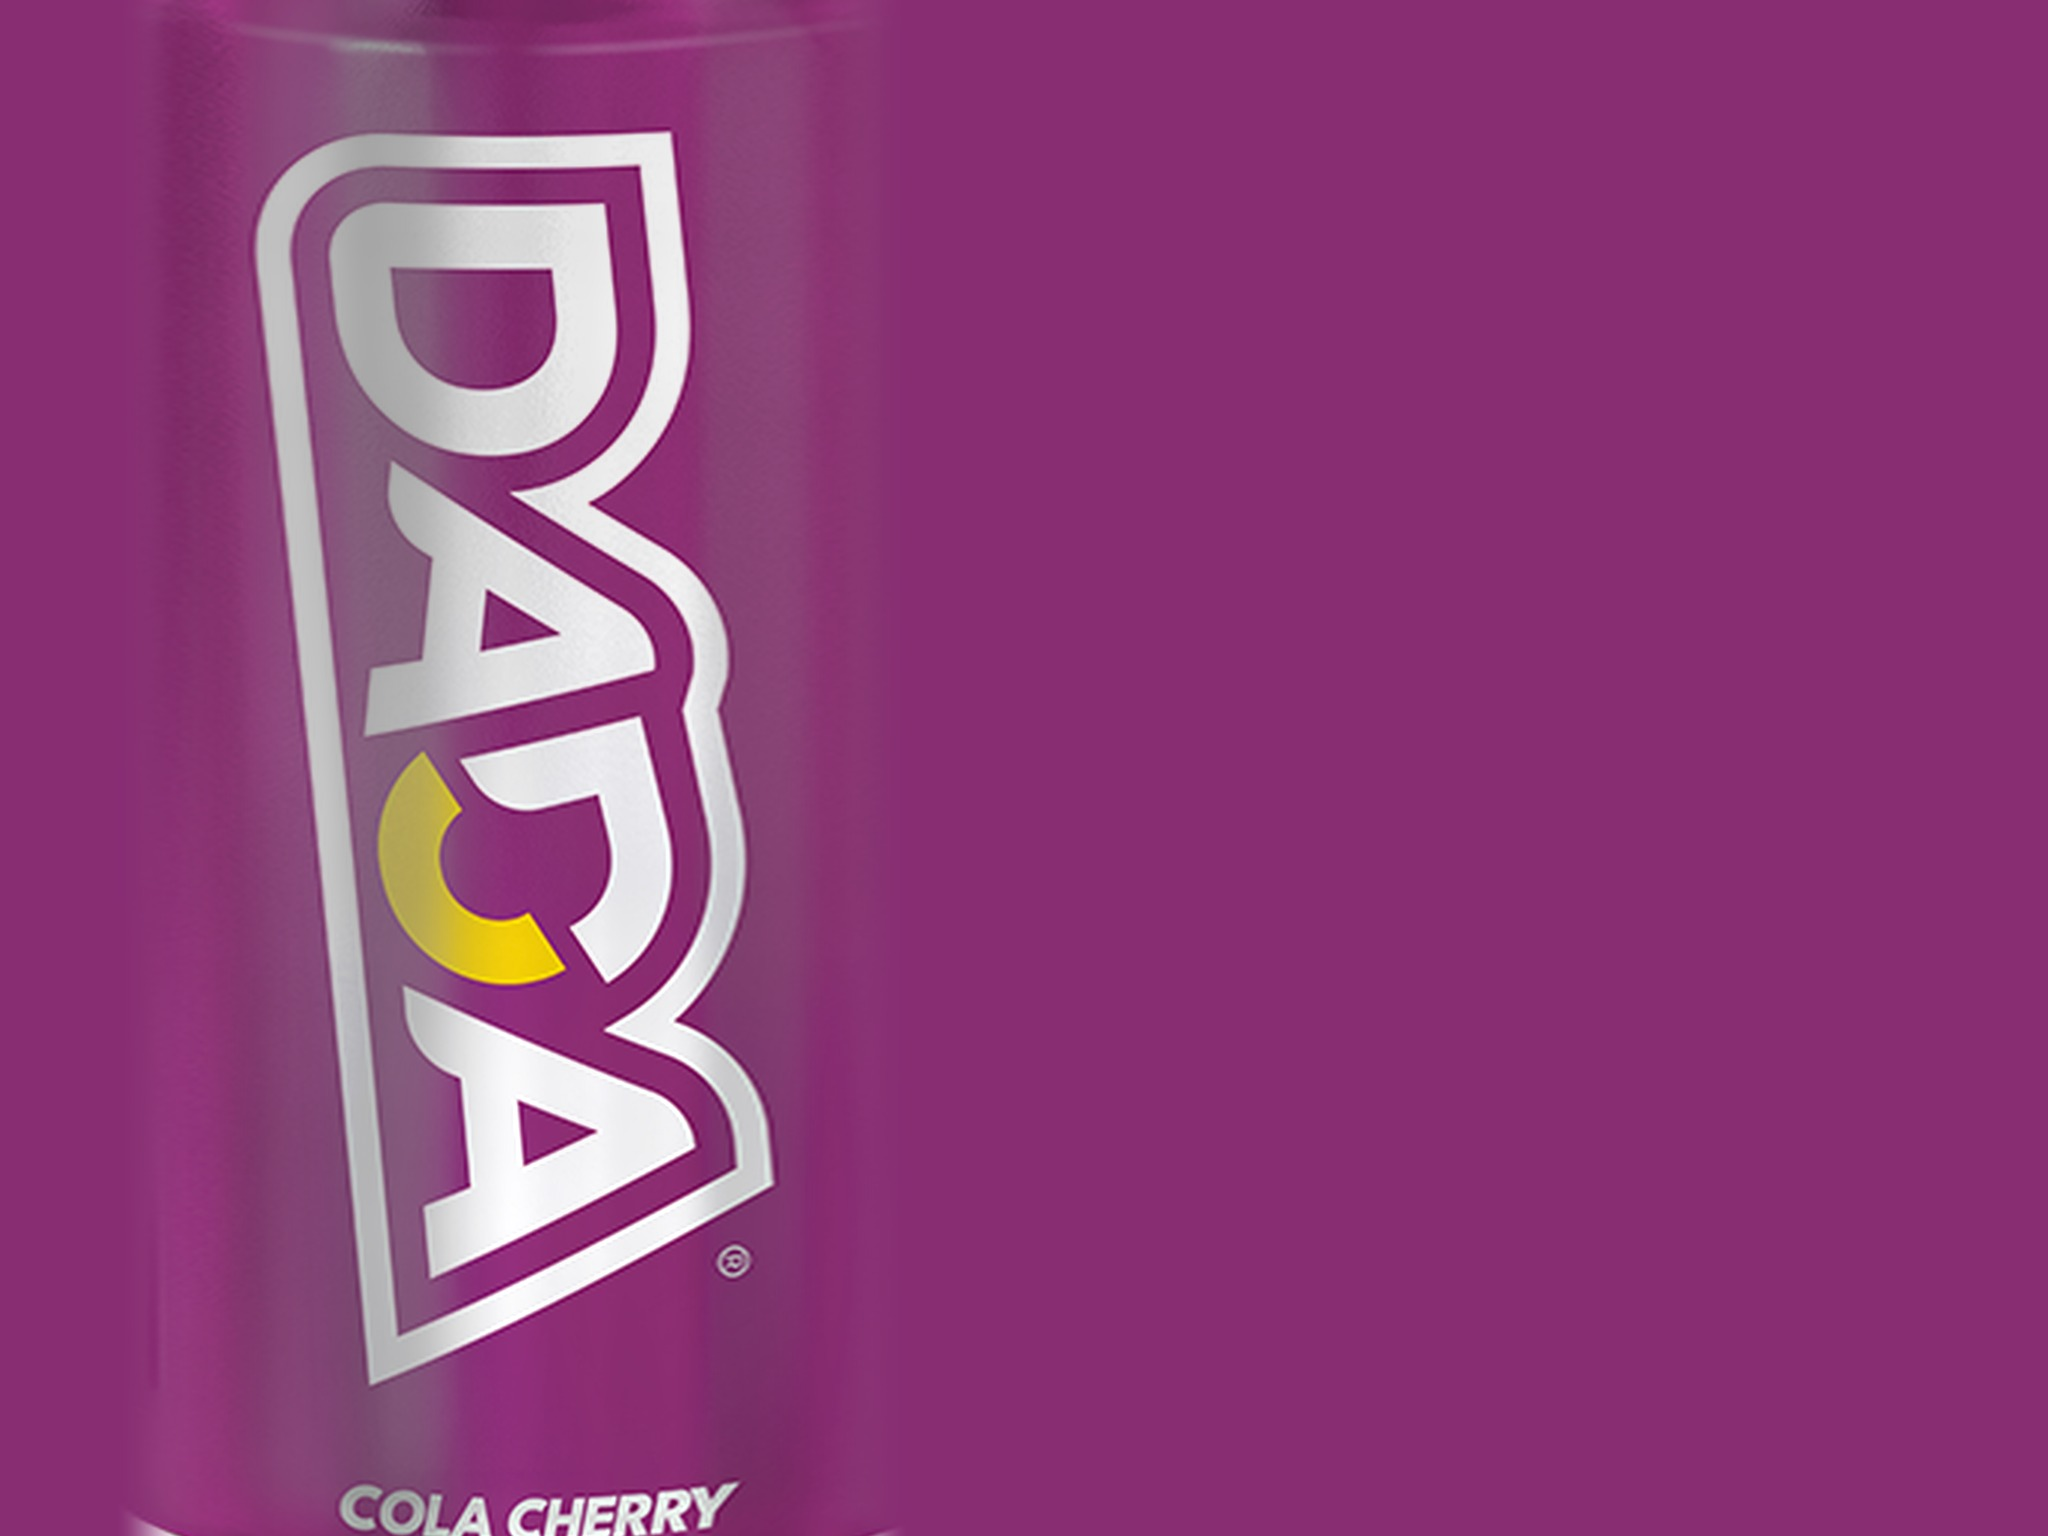
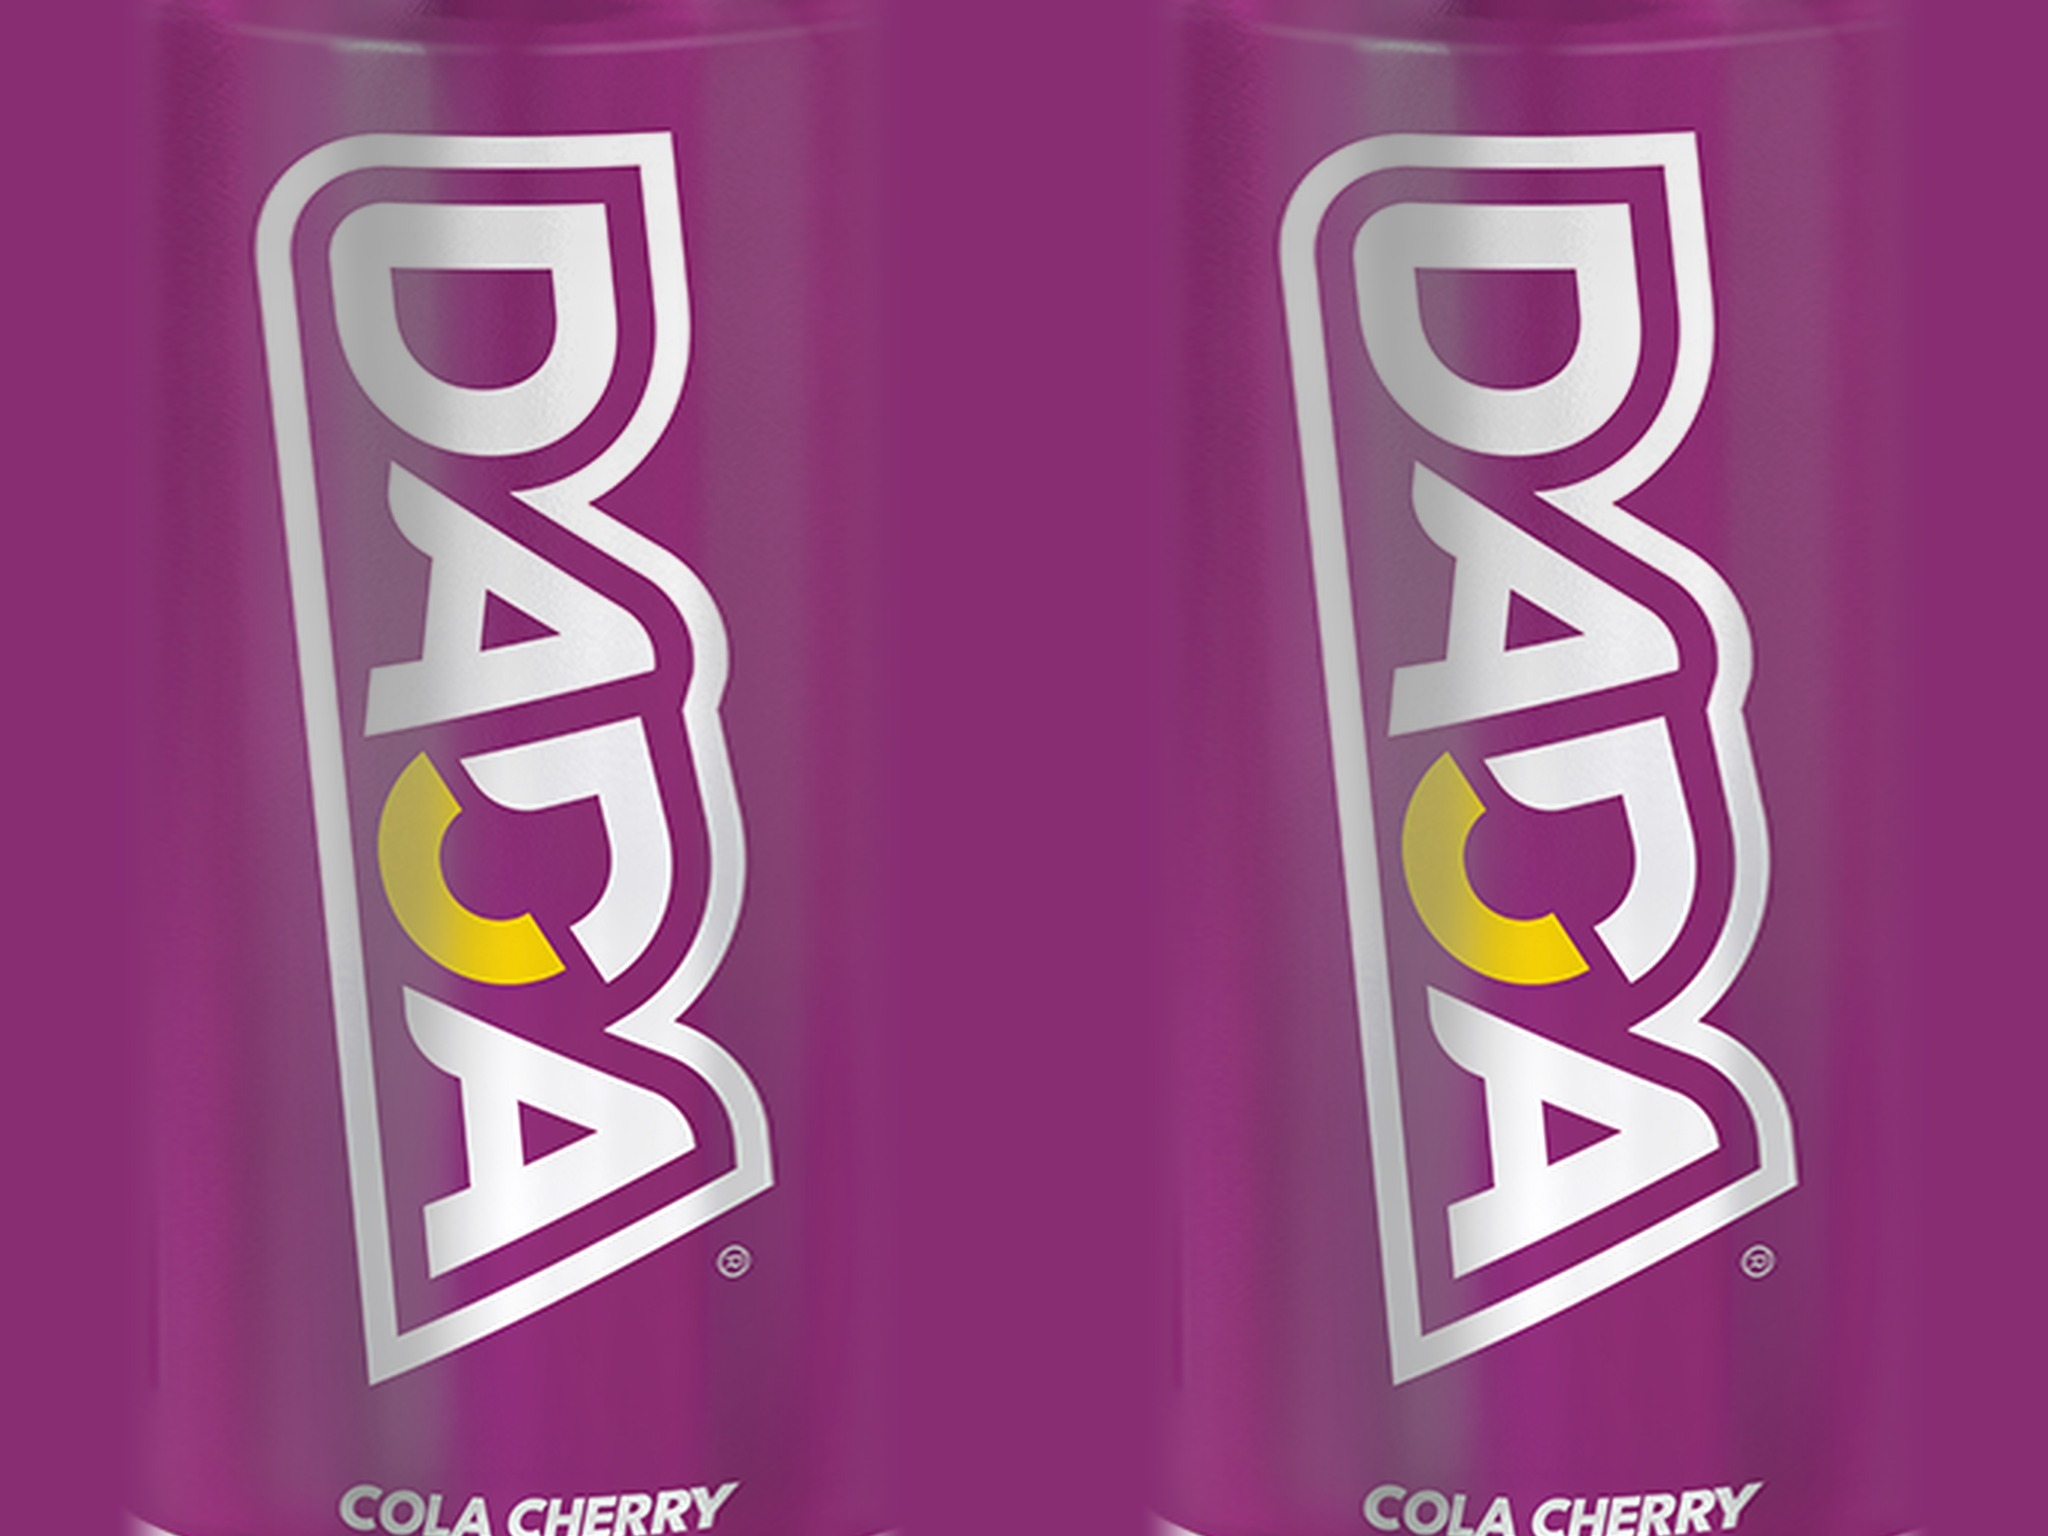
Univers : litchis fidèles, citron vert et menthe, cerises autour de la canette
Cola Cherry : design officiel sur les deux faces de la canette, cerises et bulles.

Claude-Session: https://claude.ai/code/session_01Lp2oVTbavkyW12Q8b8oBE2

Changed region(s): [[0.625, 0.0, 0.875, 1.0], [0.8125, 0.0, 0.875, 0.0312], [0.5625, 0.9688, 0.5938, 1.0]]

diff --git a/lib/can3d/universe.ts b/lib/can3d/universe.ts
@@ -158,42 +158,147 @@ function mangoCubes(): THREE.Object3D {
   return g;
 }
 
-function lychee(): THREE.Object3D {
-  const geo = new THREE.SphereGeometry(0.32, 64, 48);
+/** Points répartis régulièrement sur une sphère (spirale de Fibonacci) */
+function spherePoints(n: number) {
+  const pts: THREE.Vector3[] = [];
+  for (let i = 0; i < n; i++) {
+    const y = 1 - (2 * (i + 0.5)) / n;
+    const r = Math.sqrt(1 - y * y);
+    const a = i * 2.39996;
+    pts.push(new THREE.Vector3(Math.cos(a) * r, y, Math.sin(a) * r));
+  }
+  return pts;
+}
+
+/** Peau de litchi : petites écailles en pointe, rouge framboise, sillons plus sombres */
+function lycheeSkinGeo(r = 0.32, thetaStart = 0, thetaLength = Math.PI) {
+  const geo = new THREE.SphereGeometry(r, 112, 84, 0, Math.PI * 2, thetaStart, thetaLength);
+  const cells = spherePoints(260);
   const pos = geo.attributes.position;
-  const v = new THREE.Vector3();
+  const col = new Float32Array(pos.count * 3);
+  const v = new THREE.Vector3(), n = new THREE.Vector3();
+  const crease = C(0x6e0f1f), red = C(0xc0283d), tip = C(0xe86a72);
   for (let i = 0; i < pos.count; i++) {
     v.fromBufferAttribute(pos, i);
-    const n = Math.sin(v.x * 38) * Math.sin(v.y * 38) * Math.sin(v.z * 38);
-    v.multiplyScalar(1 + 0.035 * Math.abs(n)); // peau granuleuse
-    v.y *= 1.08;
+    n.copy(v).normalize();
+    let d1 = 9, d2 = 9;
+    for (const c of cells) {
+      const d = n.distanceToSquared(c);
+      if (d < d1) { d2 = d1; d1 = d; } else if (d < d2) d2 = d;
+    }
+    const e = Math.sqrt(d2) - Math.sqrt(d1); // 0 sur les sillons, grand au centre des écailles
+    const bump = Math.min(1, e / 0.11);
+    const peak = Math.pow(Math.max(0, 1 - Math.sqrt(d1) / 0.09), 3); // pointe au centre
+    v.copy(n).multiplyScalar(r * (1 + 0.035 * bump + 0.025 * peak));
+    v.y *= 1.1; // légèrement ovale
+    if (v.y < 0) v.y *= 1 + 0.08 * (-v.y / r); // base un peu en pointe
     pos.setXYZ(i, v.x, v.y, v.z);
+    const c = crease.clone().lerp(red, bump).lerp(tip, peak * 0.6);
+    col[i * 3] = c.r; col[i * 3 + 1] = c.g; col[i * 3 + 2] = c.b;
   }
+  geo.setAttribute("color", new THREE.BufferAttribute(col, 3));
   geo.computeVertexNormals();
-  paint(geo, (p) => mixC(0xb8263f, 0xd85a63, (p.y + 0.3) / 0.7));
-  return new THREE.Mesh(geo, new THREE.MeshStandardMaterial({ vertexColors: true, roughness: 0.75 }));
+  return geo;
 }
+const lycheeSkinMat = () => new THREE.MeshStandardMaterial({ vertexColors: true, roughness: 0.72 });
+const lycheeFleshMat = () =>
+  new THREE.MeshPhysicalMaterial({
+    color: 0xf7f2ea, roughness: 0.1, clearcoat: 1, clearcoatRoughness: 0.05,
+    transmission: 0.45, thickness: 0.5, ior: 1.36, attenuationColor: new THREE.Color(0xefe6d6), attenuationDistance: 0.6,
+  });
 
-function lycheePeeled(): THREE.Object3D {
-  const geo = new THREE.SphereGeometry(0.28, 40, 30);
-  geo.scale(1, 1.08, 1);
-  return new THREE.Mesh(
-    geo,
-    new THREE.MeshPhysicalMaterial({ color: 0xf4efe6, roughness: 0.15, clearcoat: 1, transmission: 0.25, thickness: 0.4 })
-  );
-}
-
-function mint(): THREE.Object3D {
+function lychee(): THREE.Object3D {
   const g = new THREE.Group();
-  for (let i = 0; i < 3; i++) {
-    const l = leaf(0x2f8f45, 0.55, 0.26);
-    l.rotation.z = (i - 1) * 0.7;
-    l.rotation.y = i * 0.5;
-    l.position.y = 0.25;
-    g.add(l);
-  }
+  g.add(new THREE.Mesh(lycheeSkinGeo(), lycheeSkinMat()));
+  g.add(stem([[0, 0.34, 0], [0.03, 0.48, 0], [0.1, 0.62, 0.02]], 0.022, 0x6b4a2a));
   return g;
 }
+
+/** Litchi épluché : chair blanche nacrée, translucide */
+function lycheePeeled(): THREE.Object3D {
+  const geo = new THREE.SphereGeometry(0.28, 48, 36);
+  geo.scale(1, 1.12, 1);
+  return new THREE.Mesh(geo, lycheeFleshMat());
+}
+
+/** Litchi à moitié épluché : la peau garde le bas, la chair sort par le haut */
+function lycheeHalf(): THREE.Object3D {
+  const g = new THREE.Group();
+  g.add(new THREE.Mesh(lycheeSkinGeo(0.32, Math.PI * 0.5, Math.PI * 0.5), lycheeSkinMat()));
+  const flesh = new THREE.SphereGeometry(0.29, 48, 36);
+  flesh.scale(1, 1.12, 1);
+  const m = new THREE.Mesh(flesh, lycheeFleshMat());
+  m.position.y = 0.04;
+  g.add(m);
+  return g;
+}
+
+/** Grappe : deux litchis sur une tige, avec une feuille */
+function lycheeBunch(): THREE.Object3D {
+  const g = new THREE.Group();
+  const a = lychee(), b = lychee();
+  a.position.set(-0.24, -0.1, 0);
+  b.position.set(0.26, -0.22, 0.05);
+  b.rotation.z = -0.3;
+  g.add(a, b);
+  g.add(stem([[-0.14, 0.52, 0], [0.05, 0.75, 0], [0.18, 0.4, 0.05]], 0.02, 0x6b4a2a));
+  const l = leaf(0x2f6b2a, 0.8, 0.2);
+  l.position.set(0.05, 0.75, 0);
+  l.rotation.z = -1.3;
+  g.add(l);
+  return g;
+}
+
+/** Brin de menthe : une tige et des paires de feuilles opposées */
+function mint(): THREE.Object3D {
+  const g = new THREE.Group();
+  g.add(stem([[0, -0.45, 0], [0.02, 0, 0], [0, 0.45, 0]], 0.018, 0x3f7a35));
+  const pairs = [[-0.3, 0.5], [0.0, 0.42], [0.28, 0.32]];
+  pairs.forEach(([y, len], i) => {
+    for (const side of [-1, 1]) {
+      const l = leaf(i === 2 ? 0x4fae55 : 0x2f8f45, len, len * 0.42);
+      l.position.set(0, y, 0);
+      l.rotation.z = side * 1.0;
+      l.rotation.y = i * 1.57 + (side > 0 ? 0 : Math.PI);
+      l.rotation.x = 0.25;
+      g.add(l);
+    }
+  });
+  return g;
+}
+
+/** Quartier de citron vert : peau, chair et quartiers visibles sur les faces coupées */
+function citrusWedge(skin: number, rind: string, pith: string, flesh: string): THREE.Object3D {
+  const size = 256, c = size / 2;
+  const cv = document.createElement("canvas");
+  cv.width = cv.height = size;
+  const g2 = cv.getContext("2d")!;
+  g2.fillStyle = rind; g2.beginPath(); g2.arc(c, c, c, 0, Math.PI * 2); g2.fill();
+  g2.fillStyle = pith; g2.beginPath(); g2.arc(c, c, c * 0.88, 0, Math.PI * 2); g2.fill();
+  for (let i = 0; i < 10; i++) {
+    const a0 = (i / 10) * Math.PI * 2 + 0.05, a1 = ((i + 1) / 10) * Math.PI * 2 - 0.05;
+    g2.fillStyle = flesh; g2.beginPath(); g2.moveTo(c, c); g2.arc(c, c, c * 0.82, a0, a1); g2.closePath(); g2.fill();
+  }
+  const tex = new THREE.CanvasTexture(cv);
+  tex.colorSpace = THREE.SRGBColorSpace;
+  const faceMat = new THREE.MeshPhysicalMaterial({ map: tex, roughness: 0.3, clearcoat: 0.8, clearcoatRoughness: 0.15, side: THREE.DoubleSide });
+  const r = 0.36;
+  const g = new THREE.Group();
+  const peel = new THREE.SphereGeometry(r, 40, 30, 0, Math.PI / 2);
+  peel.scale(1, 1.15, 1);
+  g.add(new THREE.Mesh(peel, new THREE.MeshPhysicalMaterial({ color: skin, roughness: 0.45, clearcoat: 0.5 })));
+  // Les deux faces coupées (demi-disques)
+  const f1 = new THREE.CircleGeometry(r, 32, Math.PI / 2, Math.PI);
+  f1.scale(1, 1.15, 1);
+  g.add(new THREE.Mesh(f1, faceMat));
+  const f2 = new THREE.CircleGeometry(r, 32, -Math.PI / 2, Math.PI);
+  f2.scale(1, 1.15, 1);
+  const m2 = new THREE.Mesh(f2, faceMat);
+  m2.rotation.y = -Math.PI / 2;
+  g.add(m2);
+  return g;
+}
+const limeWedge = () => citrusWedge(0x3f8a24, "#3f8a24", "#e8f2cc", "#b9de62");
 const lime = () => citrusSlice("#4a8f2a", "#e9f3cf", "#bfe06a", "#e9f3cf");
 const lemonSlice = () => citrusSlice("#f1c40f", "#fbf3cf", "#f8dc4d", "#fbf3cf");
 
@@ -301,13 +406,19 @@ function bubbles(): THREE.Object3D {
 }
 
 // ---------- Recettes par saveur ----------
-type Recipe = { makers: Maker[]; bubbles: number; scale?: number };
+type Recipe = {
+  makers: Maker[];
+  bubbles: number;
+  scale?: number;
+  /** Les fruits entourent la canette et tournent lentement autour d'elle */
+  orbit?: boolean;
+};
 
 const RECIPES: Record<string, Recipe> = {
-  cerise: { makers: [cherries], bubbles: 18, scale: 1.25 },
+  cerise: { makers: [cherries], bubbles: 18, scale: 1.15, orbit: true },
   mangue: { makers: [mango, mangoCubes, mango, () => leaf(0x3d7f2c)], bubbles: 18 },
-  lychee: { makers: [lychee, lycheePeeled, lychee, () => leaf(0x3d7f2c, 0.6)], bubbles: 18, scale: 1.3 },
-  mojito: { makers: [mint, lime, ice, mint, lime], bubbles: 24 },
+  lychee: { makers: [lycheeBunch, lycheePeeled, lychee, lycheeHalf, lychee], bubbles: 14, scale: 1.25 },
+  mojito: { makers: [limeWedge, mint, limeWedge, mint, lime], bubbles: 20, scale: 1.1 },
   fraise: { makers: [strawberry, strawberry, () => leaf(0x3d8b2f, 0.5)], bubbles: 18, scale: 1.25 },
   melon: { makers: [melonWedge, melonBall, melonWedge, melonBall], bubbles: 18 },
   peche: { makers: [peach, peachSlice, peach], bubbles: 18 },
@@ -315,7 +426,7 @@ const RECIPES: Record<string, Recipe> = {
   lemon: { makers: [lemon, lemonSlice, lemon, lemonSlice], bubbles: 20 },
   cola: { makers: [bubbles], bubbles: 70, scale: 1.2 },
   "cola-zero": { makers: [bubbles], bubbles: 70, scale: 1.2 },
-  "cola-cherry": { makers: [cherries, ice, cherries, ice], bubbles: 32, scale: 1.15 },
+  "cola-cherry": { makers: [cherries, bubbles, cherries, bubbles], bubbles: 60, scale: 1.15 },
   "ice-tea-peche": { makers: [peachSlice, ice, teaLeaf, peachSlice, ice], bubbles: 0 },
 };
 
@@ -333,12 +444,22 @@ const SLOTS: [number, number, number, number][] = [
   [-2.0, -2.5, 3.0, 0.55],
 ];
 
+// Couronne autour de la canette : (angle, hauteur, rayon, échelle)
+const ORBIT: [number, number, number, number][] = [
+  [0.3, 1.9, 2.1, 1.0], [1.1, -0.4, 2.3, 0.95], [1.9, 2.4, 2.0, 0.9], [2.6, -1.9, 2.2, 1.0],
+  [3.4, 0.9, 2.3, 0.95], [4.1, -2.6, 2.0, 0.85], [4.8, 2.9, 2.2, 0.9], [5.6, -1.0, 2.1, 1.0],
+  [0.8, -2.9, 3.6, 1.1], [2.3, 3.4, 3.8, 1.1], [3.9, -3.3, 4.2, 1.15], [5.2, 3.6, 4.0, 1.1],
+];
+
 export function buildUniverse(slug: string) {
   const recipe = RECIPES[slug] ?? RECIPES.cerise;
+  const slots: [number, number, number, number][] = recipe.orbit
+    ? ORBIT.map(([a, y, r, s]) => [Math.cos(a) * r, y, Math.sin(a) * r, s])
+    : SLOTS;
   const group = new THREE.Group();
   const items: { obj: THREE.Object3D; base: THREE.Vector3; spin: THREE.Vector3; phase: number; depth: number }[] = [];
 
-  SLOTS.forEach(([x, y, z, s], i) => {
+  slots.forEach(([x, y, z, s], i) => {
     const obj = recipe.makers[i % recipe.makers.length]();
     obj.scale.setScalar(s * (recipe.scale ?? 1) * (0.9 + ((i * 37) % 10) / 50));
     obj.rotation.set(i * 1.3, i * 2.1, i * 0.7);
@@ -382,10 +503,20 @@ export function buildUniverse(slug: string) {
           it.obj.rotation.y += it.spin.y * dt;
         }
         const bob = still ? 0 : Math.sin(t * 0.6 + it.phase) * 0.12;
+        let bx = it.base.x, bz = it.base.z;
+        if (recipe.orbit) {
+          // rotation lente autour de la canette ; la souris l'accompagne
+          const a = (still ? 0 : t * 0.12) + mouse.x * 0.5;
+          const ca = Math.cos(a), sa = Math.sin(a);
+          bx = it.base.x * ca - it.base.z * sa;
+          bz = it.base.x * sa + it.base.z * ca;
+          it.obj.position.set(bx, it.base.y + bob + mouse.y * 0.25, bz);
+          continue;
+        }
         it.obj.position.set(
-          it.base.x - mouse.x * 0.45 * it.depth,
+          bx - mouse.x * 0.45 * it.depth,
           it.base.y + bob + mouse.y * 0.3 * it.depth,
-          it.base.z
+          bz
         );
       }
       if (bubbles) {

diff --git a/lib/can3d/labels.ts b/lib/can3d/labels.ts
@@ -64,15 +64,17 @@ async function recolored(f: Flavor) {
   }
   g.putImageData(data, 0, 0);
 
-  // Remplace « COLA CHERRY » par le nom de la saveur
+  // Remplace « COLA CHERRY » par le nom de la saveur, sur les deux faces de la canette
   const k = W / 2048;
-  g.fillStyle = f.c;
-  g.fillRect(300 * k, 1440 * k, 480 * k, 96 * k);
   g.font = `900 ${46 * k}px ${labelFont()}, system-ui, sans-serif`;
   g.textAlign = "center";
   g.textBaseline = "middle";
-  g.fillStyle = "#ecebef";
-  g.fillText(f.name.toUpperCase(), 540 * k, 1500 * k);
+  for (const off of [0, 1024]) {
+    g.fillStyle = f.c;
+    g.fillRect((300 + off) * k, 1440 * k, 480 * k, 96 * k);
+    g.fillStyle = "#ecebef";
+    g.fillText(f.name.toUpperCase(), (540 + off) * k, 1500 * k);
+  }
   return c;
 }
 
